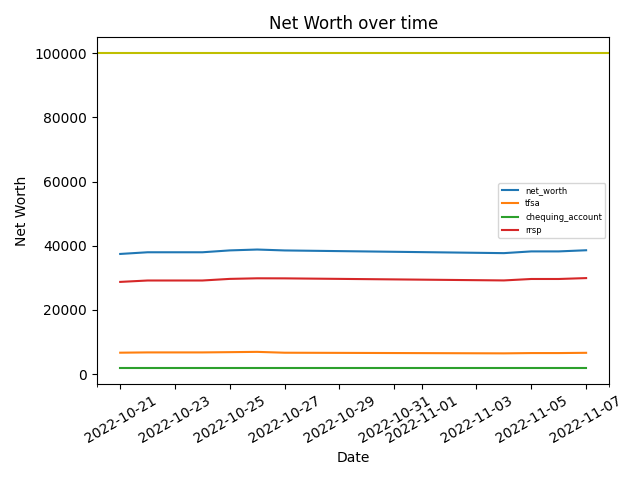
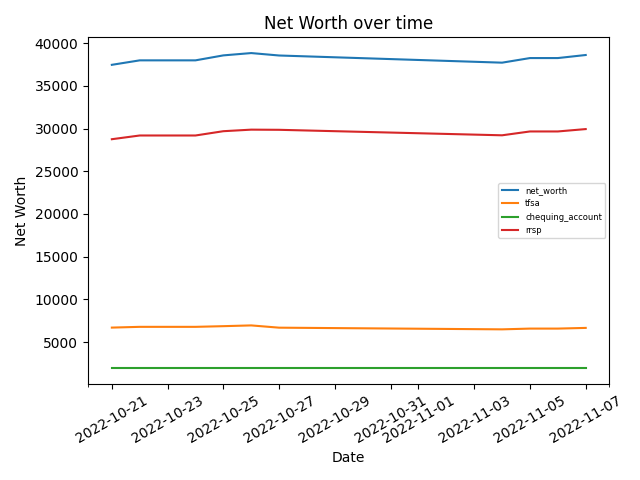
readme

diff --git a/src/finances/app/net_worth.py b/src/finances/app/net_worth.py
@@ -129,7 +129,7 @@ class NetWorth(_Template):
         """Create line plot of net worth"""
         for col in df.columns[1:]:  # skip date
             plt.plot(df.date, df[col], label=col)
-        plt.axhline(y=100000, color="y", linestyle="-")
+        # plt.axhline(y=100000, color="y", linestyle="-")
         plt.title("Net Worth over time")
         plt.xlabel("Date")
         plt.xticks(rotation=30)

diff --git a/README.md b/README.md
@@ -189,7 +189,7 @@ Project Link: [https://github.com/sergeiissaev/net_worth](https://github.com/ser
 [license-url]: https://github.com/sergeiissaev/net_worth/blob/master/LICENSE.md
 [linkedin-shield]: https://img.shields.io/badge/-LinkedIn-black.svg?style=for-the-badge&logo=linkedin&colorB=555
 [linkedin-url]: https://linkedin.com/in/sergei-issaev
-[product-screenshot]: data/processed/net_worth_stacked_graph.png
+[product-screenshot]: data/processed/net_worth_line_graph.png
 [Next.js]: https://img.shields.io/badge/next.js-000000?style=for-the-badge&logo=nextdotjs&logoColor=white
 [Next-url]: https://nextjs.org/
 [React.js]: https://img.shields.io/badge/React-20232A?style=for-the-badge&logo=react&logoColor=61DAFB
